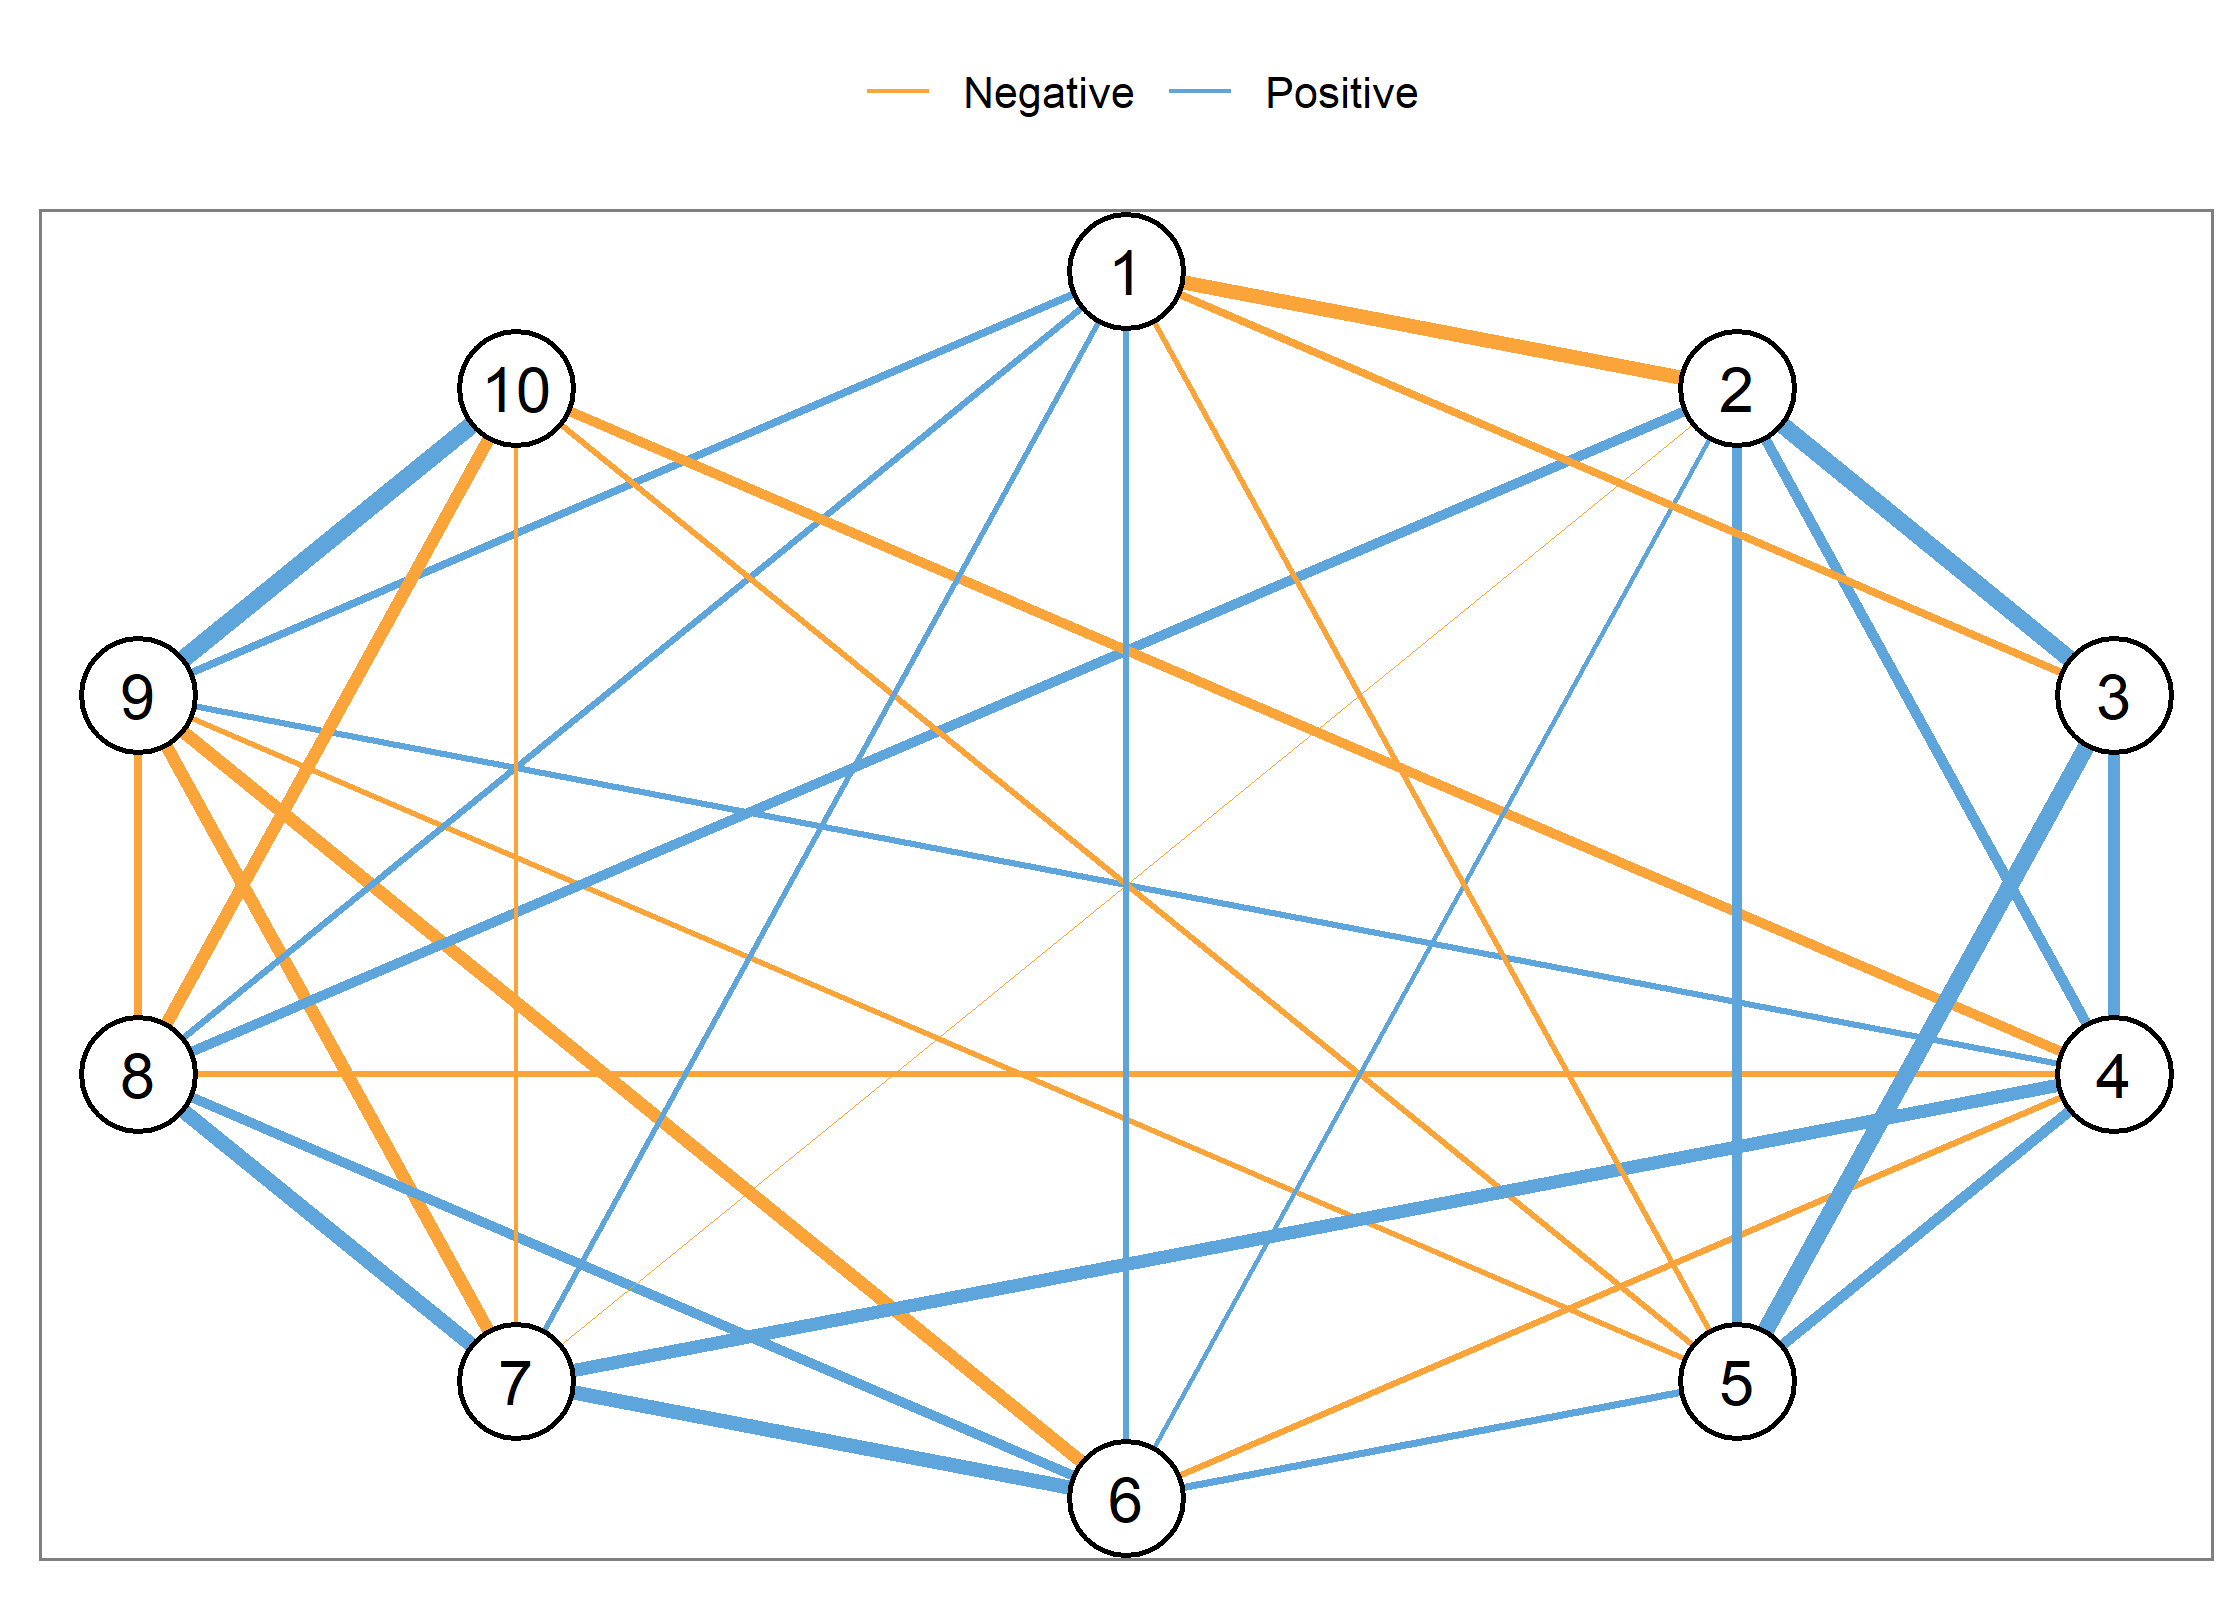
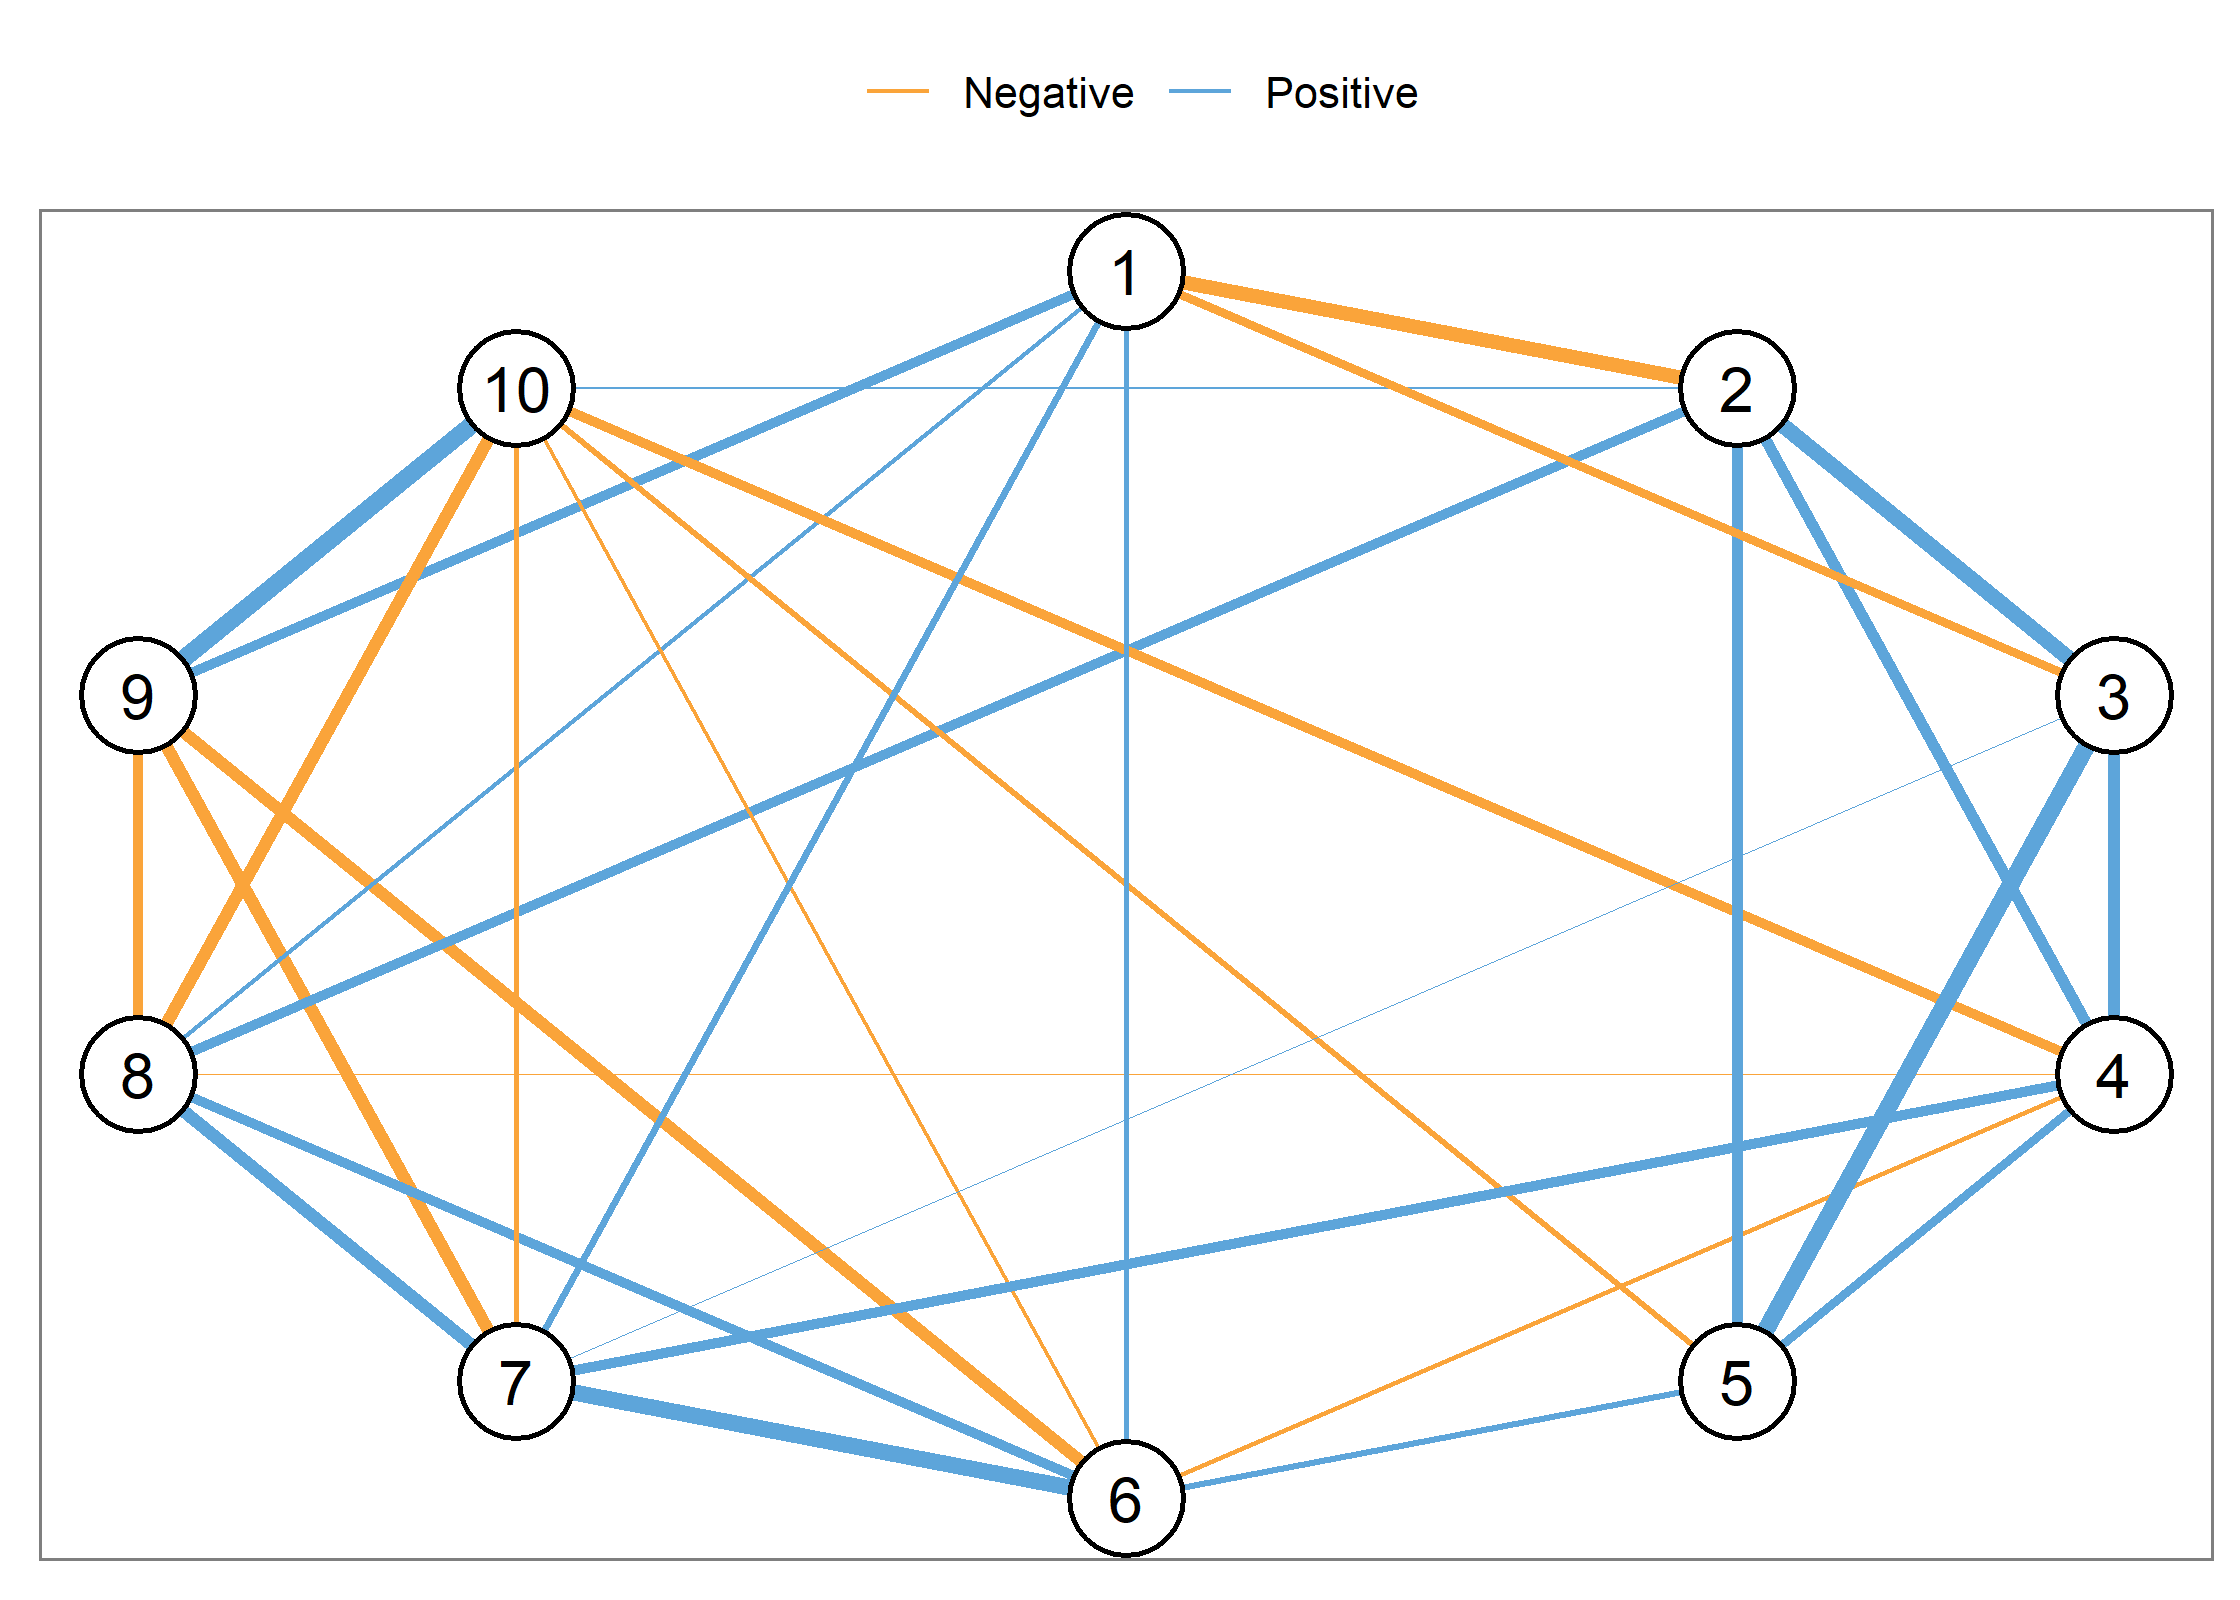
update README

diff --git a/README.md b/README.md
@@ -35,31 +35,35 @@ devtools::install_github("josue-rodriguez/glaxo")
 
 ## Example
 
-This is a basic example which shows you how to solve a common problem:
+The main function in this package is called `glaxo` (relaxed + glasso).
+In it’s most basic form, it takes a `data.frame` or `matrix` and
+estimates the relaxed lasso solution for the graphical model
 
 ``` r
 library(glaxo)
 
-Y <- subset(psych::bfi, select = 1:10)
+Y <- psych::bfi[, 1:10]
 Y <- na.omit(Y)
 
-relaxed_glasso <- glaxo(Y[1:1000, ], progress = FALSE)
+relaxed_glasso <- glaxo(Y, progress = FALSE)
 ```
 
 ``` r
 relaxed_glasso
 #>         1      2      3      4      5      6      7      8      9     10
-#> 1   0.000 -0.242 -0.068  0.000 -0.042  0.044  0.052  0.057  0.079  0.000
-#> 2  -0.242  0.000  0.302  0.142  0.113  0.029 -0.002  0.144  0.000  0.000
-#> 3  -0.068  0.302  0.000  0.163  0.317  0.000  0.000  0.000  0.000  0.000
-#> 4   0.000  0.142  0.163  0.000  0.140 -0.046  0.181 -0.041  0.044 -0.142
-#> 5  -0.042  0.113  0.317  0.140  0.000  0.065  0.000  0.000 -0.028 -0.039
-#> 6   0.044  0.029  0.000 -0.046  0.065  0.000  0.257  0.129 -0.195  0.000
-#> 7   0.052 -0.002  0.000  0.181  0.000  0.257  0.000  0.255 -0.195 -0.019
-#> 8   0.057  0.144  0.000 -0.041  0.000  0.129  0.255  0.000 -0.072 -0.192
-#> 9   0.079  0.000  0.000  0.044 -0.028 -0.195 -0.195 -0.072  0.000  0.369
-#> 10  0.000  0.000  0.000 -0.142 -0.039  0.000 -0.019 -0.192  0.369  0.000
+#> 1   0.000 -0.249 -0.109  0.000  0.000  0.043  0.068  0.037  0.110  0.000
+#> 2  -0.249  0.000  0.285  0.159  0.149  0.000  0.000  0.121  0.000  0.021
+#> 3  -0.109  0.285  0.000  0.169  0.357  0.000  0.014  0.000  0.000  0.000
+#> 4   0.000  0.159  0.169  0.000  0.107 -0.036  0.142 -0.015  0.000 -0.140
+#> 5   0.000  0.149  0.357  0.107  0.000  0.056  0.000  0.000  0.000 -0.051
+#> 6   0.043  0.000  0.000 -0.036  0.056  0.000  0.301  0.129 -0.160 -0.030
+#> 7   0.068  0.000  0.014  0.142  0.000  0.301  0.000  0.183 -0.187 -0.042
+#> 8   0.037  0.121  0.000 -0.015  0.000  0.129  0.183  0.000 -0.122 -0.177
+#> 9   0.110  0.000  0.000  0.000  0.000 -0.160 -0.187 -0.122  0.000  0.357
+#> 10  0.000  0.021  0.000 -0.140 -0.051 -0.030 -0.042 -0.177  0.357  0.000
 ```
+
+The resulting object can also be plotted using standard `ggplot2` syntax
 
 ``` r
 library(ggnetwork)
@@ -76,35 +80,41 @@ plot_edges(relaxed_glasso, layout = "circle") +
 
 <img src="man/figures/README-plot-1.png" width="100%" />
 
+Predictions can be made on new data using the relationship between
+Gaussian graphical models and linear regression (e.g., Stevens 1998)
+
 ``` r
 preds <- predict(relaxed_glasso, newdata = Y[1001:2000, ])
 str(preds)
 #> List of 2
-#>  $ predictions: num [1:1000, 1:10] 1.87 2.1 2.81 3.03 3 ...
-#>  $ beta_matrix: num [1:10, 1:10] 8.80e-01 -2.12e-01 -5.87e-02 7.86e-07 -3.83e-02 ...
+#>  $ predictions: num [1:1000, 1:10] 1.83 2 2.98 3.04 3.03 ...
+#>  $ beta_matrix: num [1:10, 1:10] 8.54e-01 -2.18e-01 -9.25e-02 3.67e-07 8.84e-07 ...
 round(head(preds$predictions), 3)
 #>       [,1]  [,2]  [,3]  [,4]  [,5]  [,6]  [,7]  [,8]  [,9] [,10]
-#> [1,] 1.865 5.430 5.217 5.095 5.113 3.944 3.562 3.644 3.336 4.007
-#> [2,] 2.103 4.872 5.135 5.046 5.083 5.319 5.752 5.095 2.146 1.985
-#> [3,] 2.808 4.047 4.267 4.179 4.142 3.602 3.645 3.687 3.313 5.086
-#> [4,] 3.032 2.897 2.928 3.443 2.887 4.427 4.013 4.342 2.273 3.640
-#> [5,] 3.003 4.330 4.200 3.718 3.721 5.130 5.180 4.220 2.753 2.189
-#> [6,] 2.558 4.386 4.579 4.852 4.252 4.417 3.859 4.091 3.060 4.602
+#> [1,] 1.831 5.495 5.232 5.101 5.213 3.887 3.492 3.674 3.230 4.109
+#> [2,] 2.002 4.800 5.051 5.183 5.144 5.263 5.708 5.096 2.161 2.007
+#> [3,] 2.981 4.088 4.235 4.035 4.196 3.615 3.898 3.657 3.532 4.946
+#> [4,] 3.038 2.759 2.785 3.575 2.869 4.419 4.057 4.357 2.337 3.737
+#> [5,] 3.033 4.318 4.221 3.794 3.493 5.090 4.987 4.300 2.637 2.204
+#> [6,] 2.663 4.380 4.539 4.742 4.491 4.406 3.940 3.905 3.241 4.554
 round(preds$beta_matrix, 3)
 #>         [,1]   [,2]   [,3]   [,4]   [,5]   [,6]   [,7]   [,8]   [,9]  [,10]
-#>  [1,]  0.880 -0.276 -0.078  0.000 -0.046  0.047  0.059  0.062  0.091  0.000
-#>  [2,] -0.212  0.678  0.307  0.132  0.109  0.027 -0.002  0.138  0.000  0.000
-#>  [3,] -0.059  0.298  0.658  0.150  0.300  0.000  0.000  0.000  0.000  0.000
-#>  [4,]  0.000  0.152  0.177  0.781  0.144 -0.047  0.194 -0.042  0.048 -0.149
-#>  [5,] -0.038  0.118  0.335  0.136  0.736  0.064  0.000  0.000 -0.029 -0.040
-#>  [6,]  0.040  0.031  0.000 -0.045  0.066  0.759  0.273  0.132 -0.209  0.000
-#>  [7,]  0.046 -0.002  0.000  0.168  0.000  0.242  0.674  0.245 -0.197 -0.018
-#>  [8,]  0.051  0.149  0.000 -0.040  0.000  0.127  0.265  0.730 -0.075 -0.194
-#>  [9,]  0.069  0.000  0.000  0.040 -0.027 -0.182 -0.193 -0.068  0.662  0.356
-#> [10,]  0.000  0.000  0.000 -0.136 -0.039  0.000 -0.019 -0.189  0.382  0.711
+#>  [1,]  0.854 -0.283 -0.129  0.000  0.000  0.046  0.076  0.039  0.125  0.000
+#>  [2,] -0.218  0.657  0.294  0.146  0.145  0.000  0.000  0.113  0.000  0.020
+#>  [3,] -0.093  0.276  0.615  0.151  0.335  0.000  0.013  0.000  0.000  0.000
+#>  [4,]  0.000  0.172  0.189  0.773  0.113 -0.037  0.150 -0.015  0.000 -0.147
+#>  [5,]  0.000  0.154  0.381  0.102  0.701  0.054  0.000  0.000  0.000 -0.051
+#>  [6,]  0.041  0.000  0.000 -0.036  0.058  0.751  0.314  0.129 -0.170 -0.031
+#>  [7,]  0.061  0.000  0.015  0.134  0.000  0.289  0.690  0.174 -0.191 -0.041
+#>  [8,]  0.035  0.130  0.000 -0.015  0.000  0.130  0.192  0.758 -0.130 -0.183
+#>  [9,]  0.097  0.000  0.000  0.000  0.000 -0.149 -0.183 -0.113  0.659  0.345
+#> [10,]  0.000  0.022  0.000 -0.134 -0.051 -0.029 -0.042 -0.170  0.369  0.705
 ```
 
 # Relaxed lasso vs regular lasso
+
+By debiasing the estimates, the relaxed lasso can outperform “vanilla”
+lasso
 
 ``` r
 library(GGMncv)
@@ -125,20 +135,20 @@ relaxed_glasso <- glaxo(Y, progress = FALSE, ic = "bic")
 
 glaxo:::compare(Estimate = regular_glasso$adj, True = main$adj)
 #>       measure     score
-#> 1 Specificity 0.6390977
+#> 1 Specificity 0.4135338
 #> 2 Sensitivity 1.0000000
-#> 3   Precision 0.5428571
+#> 3   Precision 0.4222222
 #> 4      Recall 1.0000000
-#> 5    F1_score 0.7037037
-#> 6         MCC 0.5890151
+#> 5    F1_score 0.5937500
+#> 6         MCC 0.4178554
 glaxo:::compare(Estimate = relaxed_glasso$adj, True = main$adj)
 #>       measure     score
-#> 1 Specificity 0.9699248
+#> 1 Specificity 0.9473684
 #> 2 Sensitivity 1.0000000
-#> 3   Precision 0.9344262
+#> 3   Precision 0.8906250
 #> 4      Recall 1.0000000
-#> 5    F1_score 0.9661017
-#> 6         MCC 0.9520101
+#> 5    F1_score 0.9421488
+#> 6         MCC 0.9185587
 ```
 
 # References
@@ -149,6 +159,13 @@ glaxo:::compare(Estimate = relaxed_glasso$adj, True = main$adj)
 
 Meinshausen, Nicolai. 2007. “Relaxed Lasso.” *Computational Statistics &
 Data Analysis* 52 (1): 374–93.
+
+</div>
+
+<div id="ref-stevens1998inverse" class="csl-entry">
+
+Stevens, Guy VG. 1998. “On the Inverse of the Covariance Matrix in
+Portfolio Analysis.” *The Journal of Finance* 53 (5): 1821–27.
 
 </div>
 
